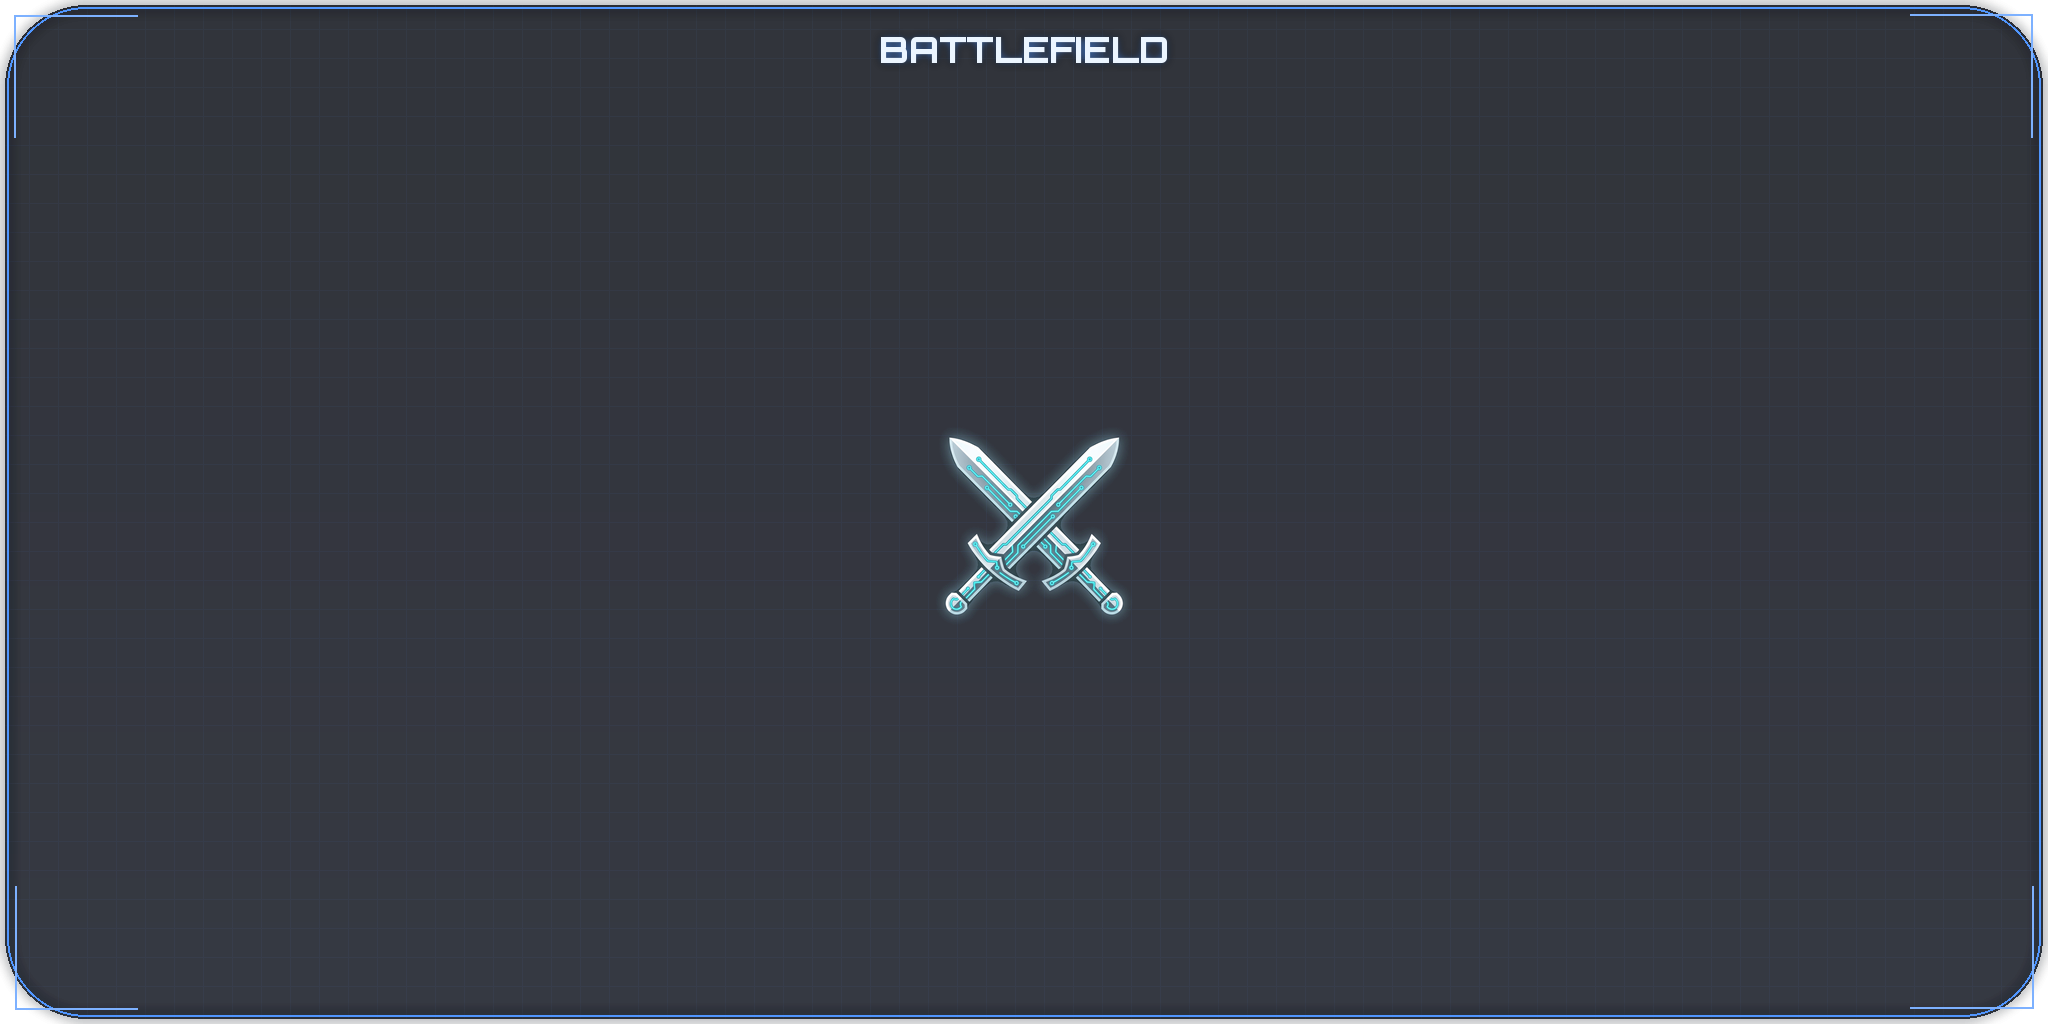
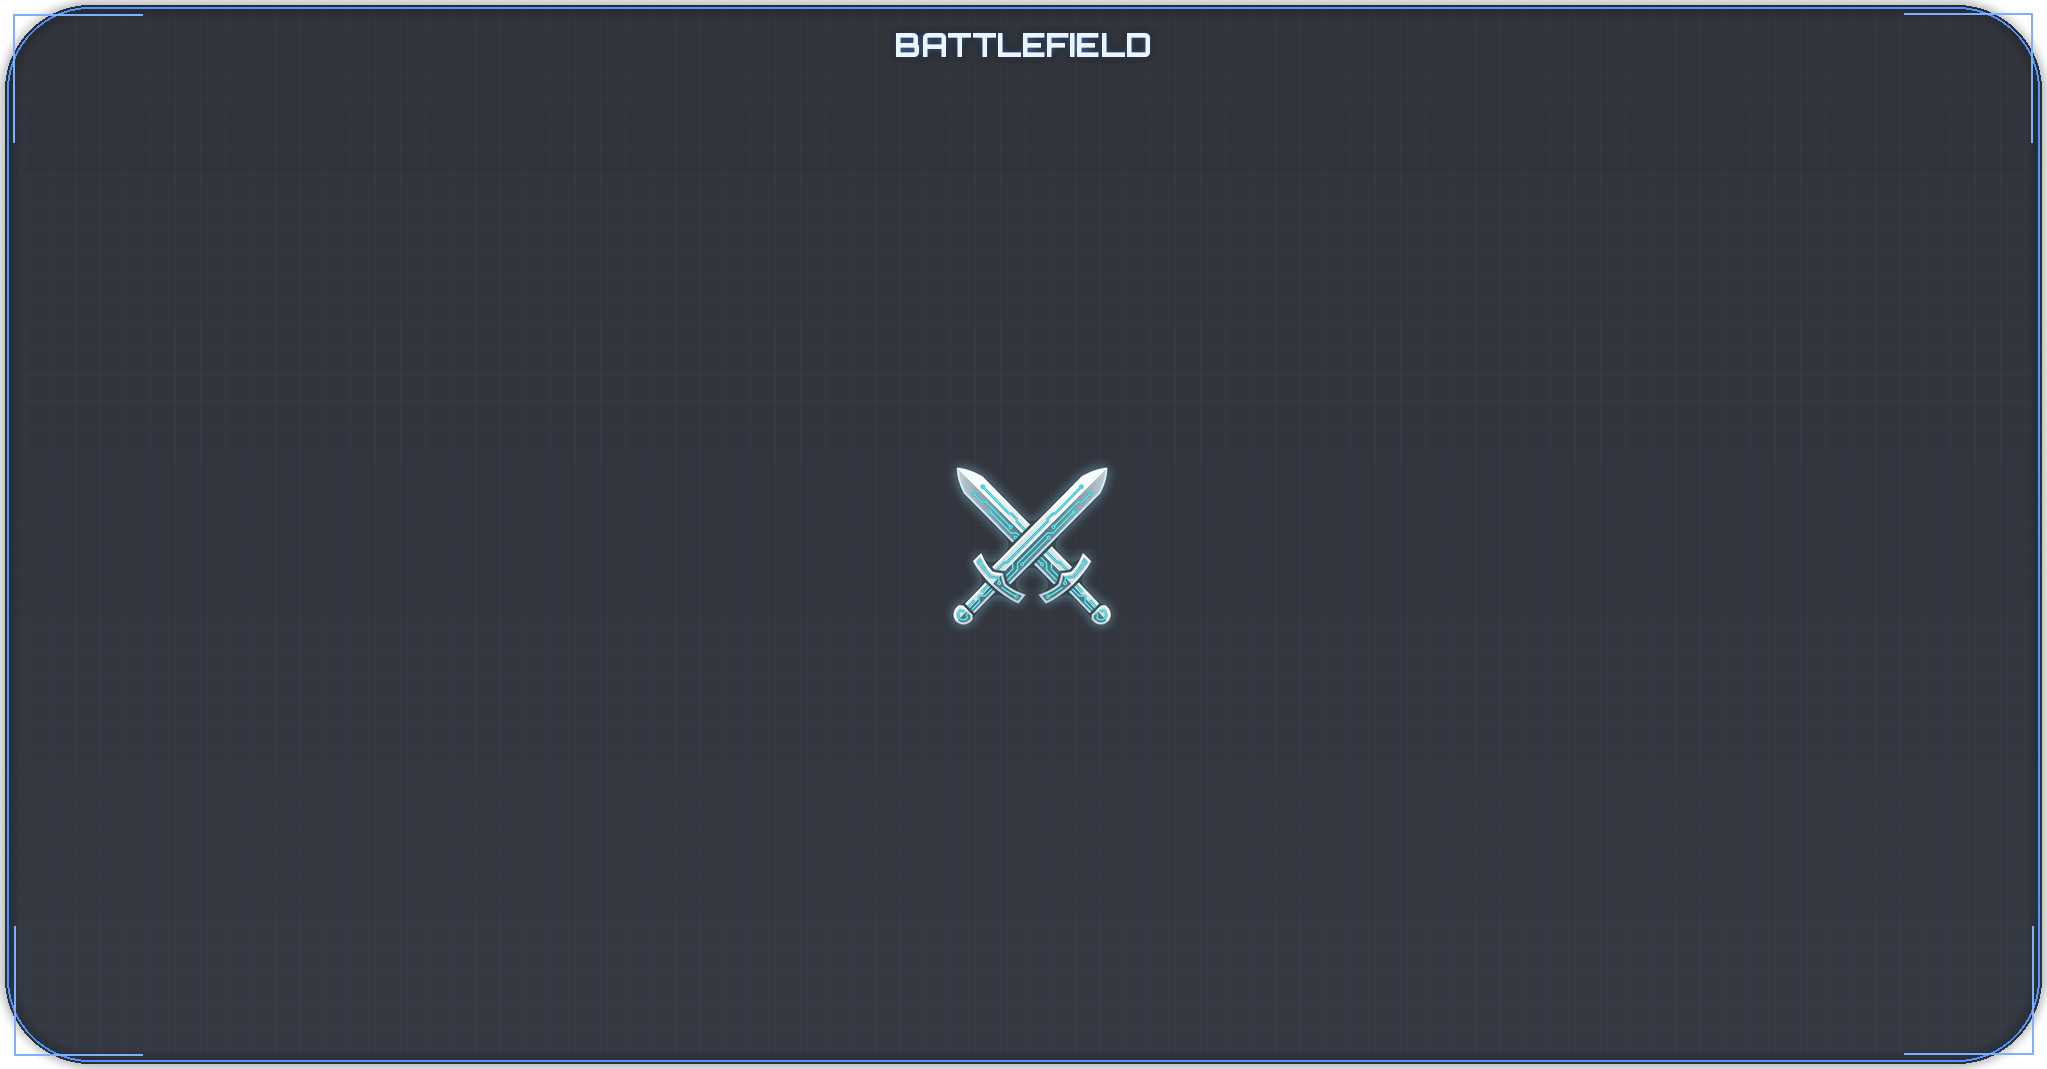
Bigger battlefield

diff --git a/tools/make_mat_art.py b/tools/make_mat_art.py
@@ -21,7 +21,7 @@ SEAT_RGB = {"White": (205, 212, 230), "Red": (230, 70, 80), "Green": (70, 220, 1
 AREAS = {
     "command1": (4.2, 5.5, "COMMANDER", None, 2.4),
     "command2": (4.2, 5.5, "PARTNER", None, 2.4),
-    "battlefield": (28, 14, "BATTLEFIELD", "battlefield.png", 3.4),
+    "battlefield": (31.6, 16.5, "BATTLEFIELD", "battlefield.png", 3.4),
     "lands": (39, 5.5, "LANDS", "lands.png", 2.6),
     "library": (6, 6.5, "LIBRARY", "library.png", 2.6),
     "graveyard": (6, 6.5, "GRAVEYARD", "graveyard.png", 2.6),
